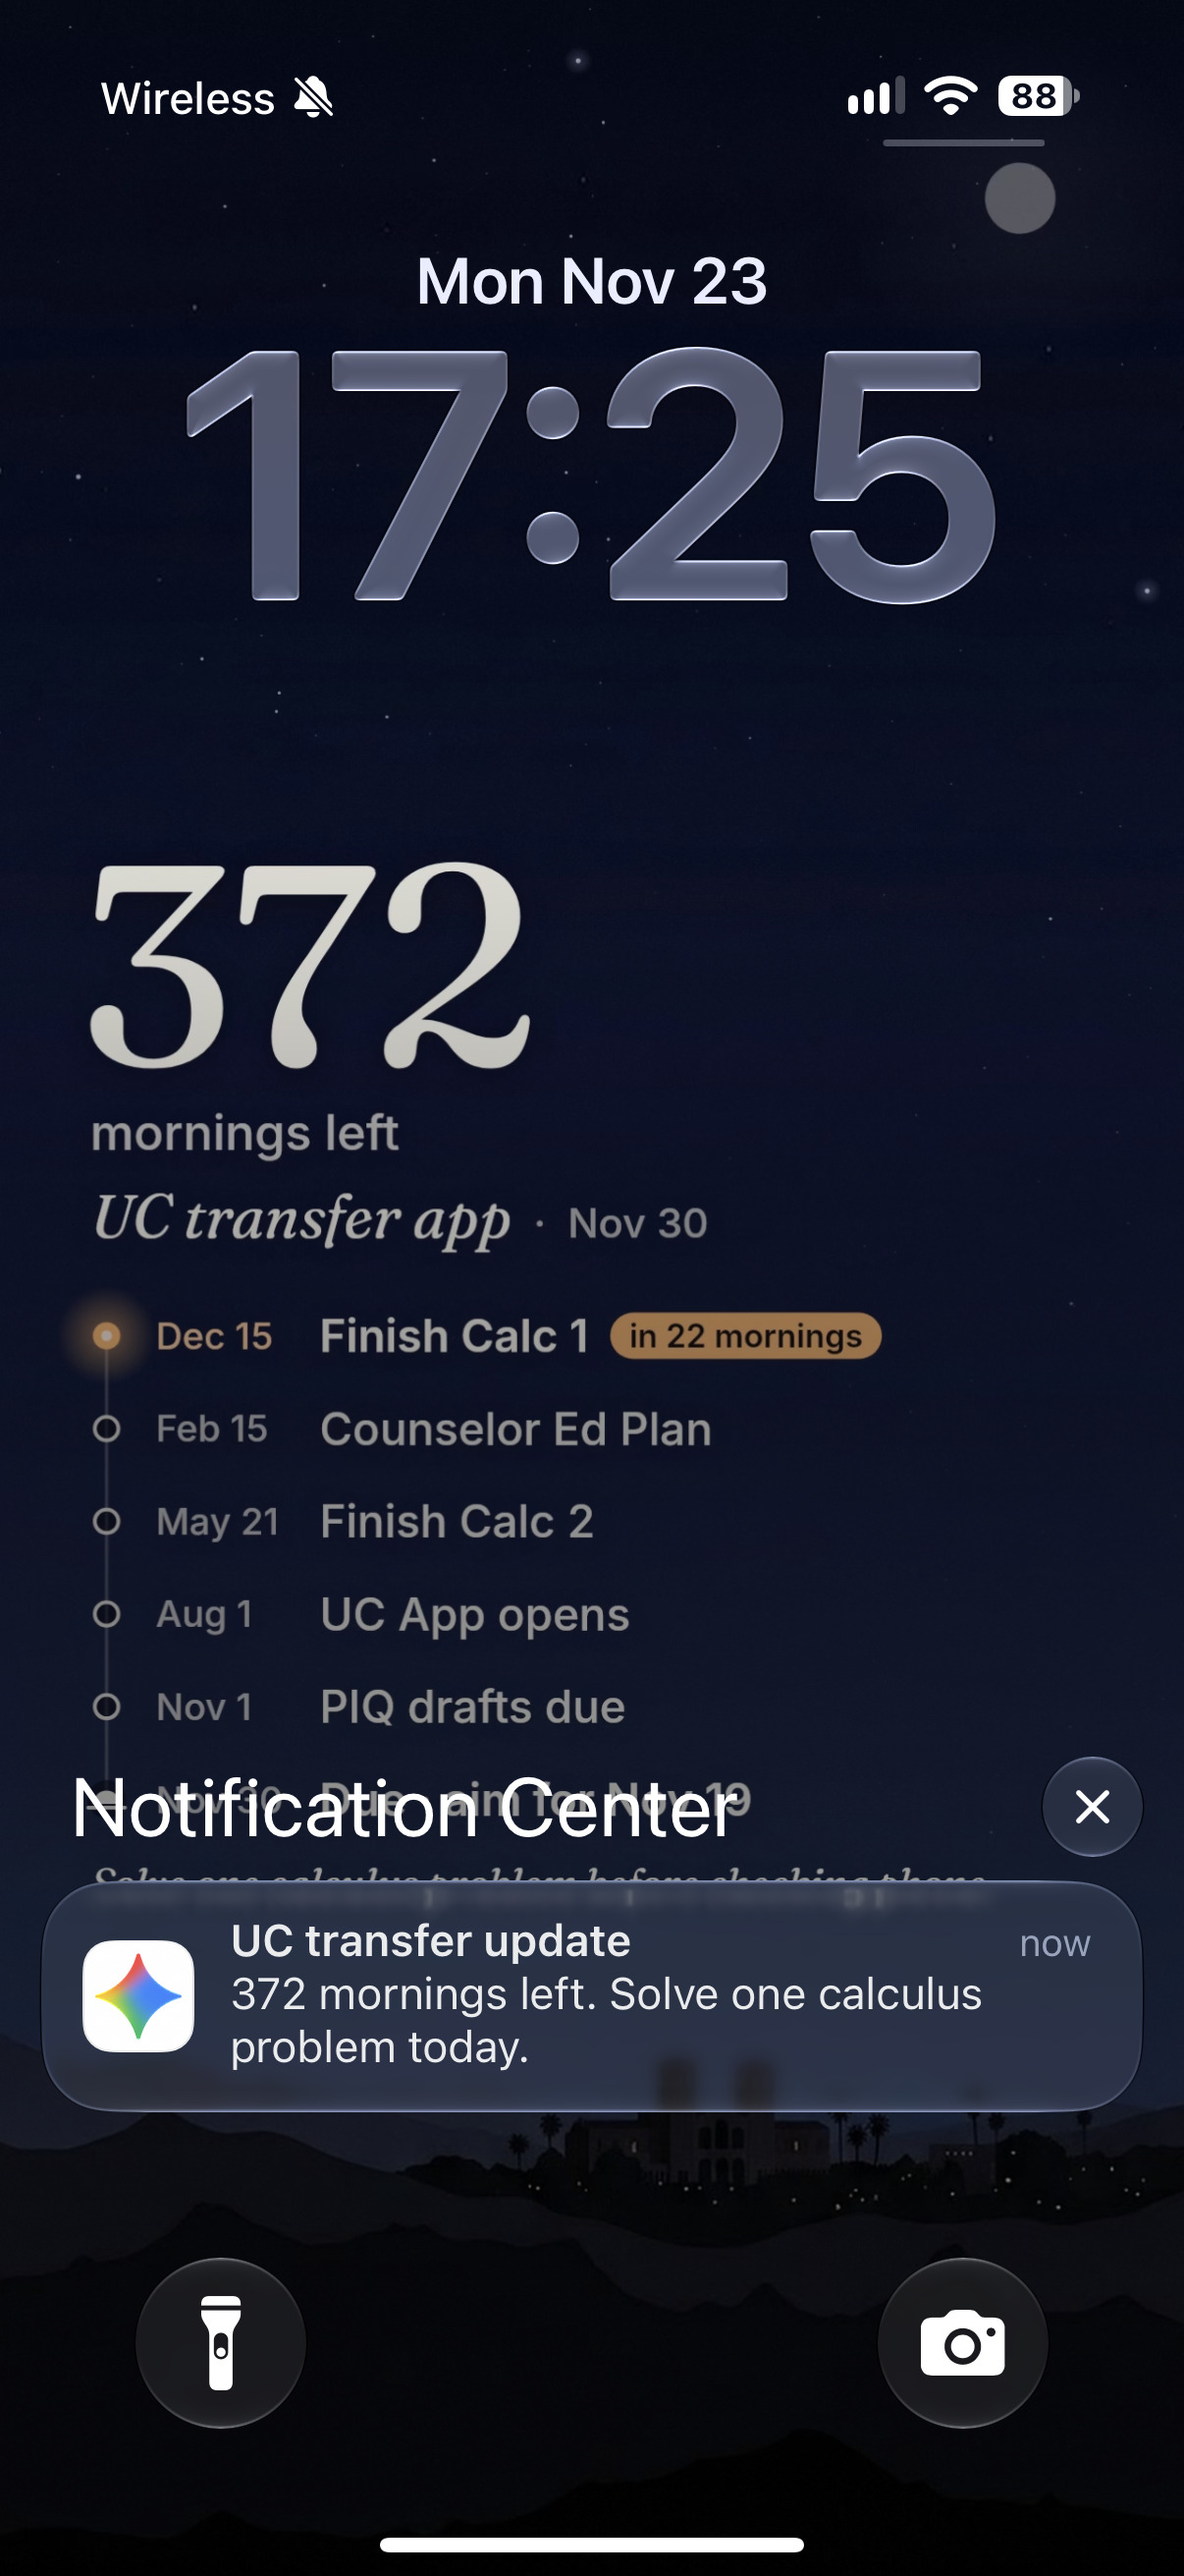
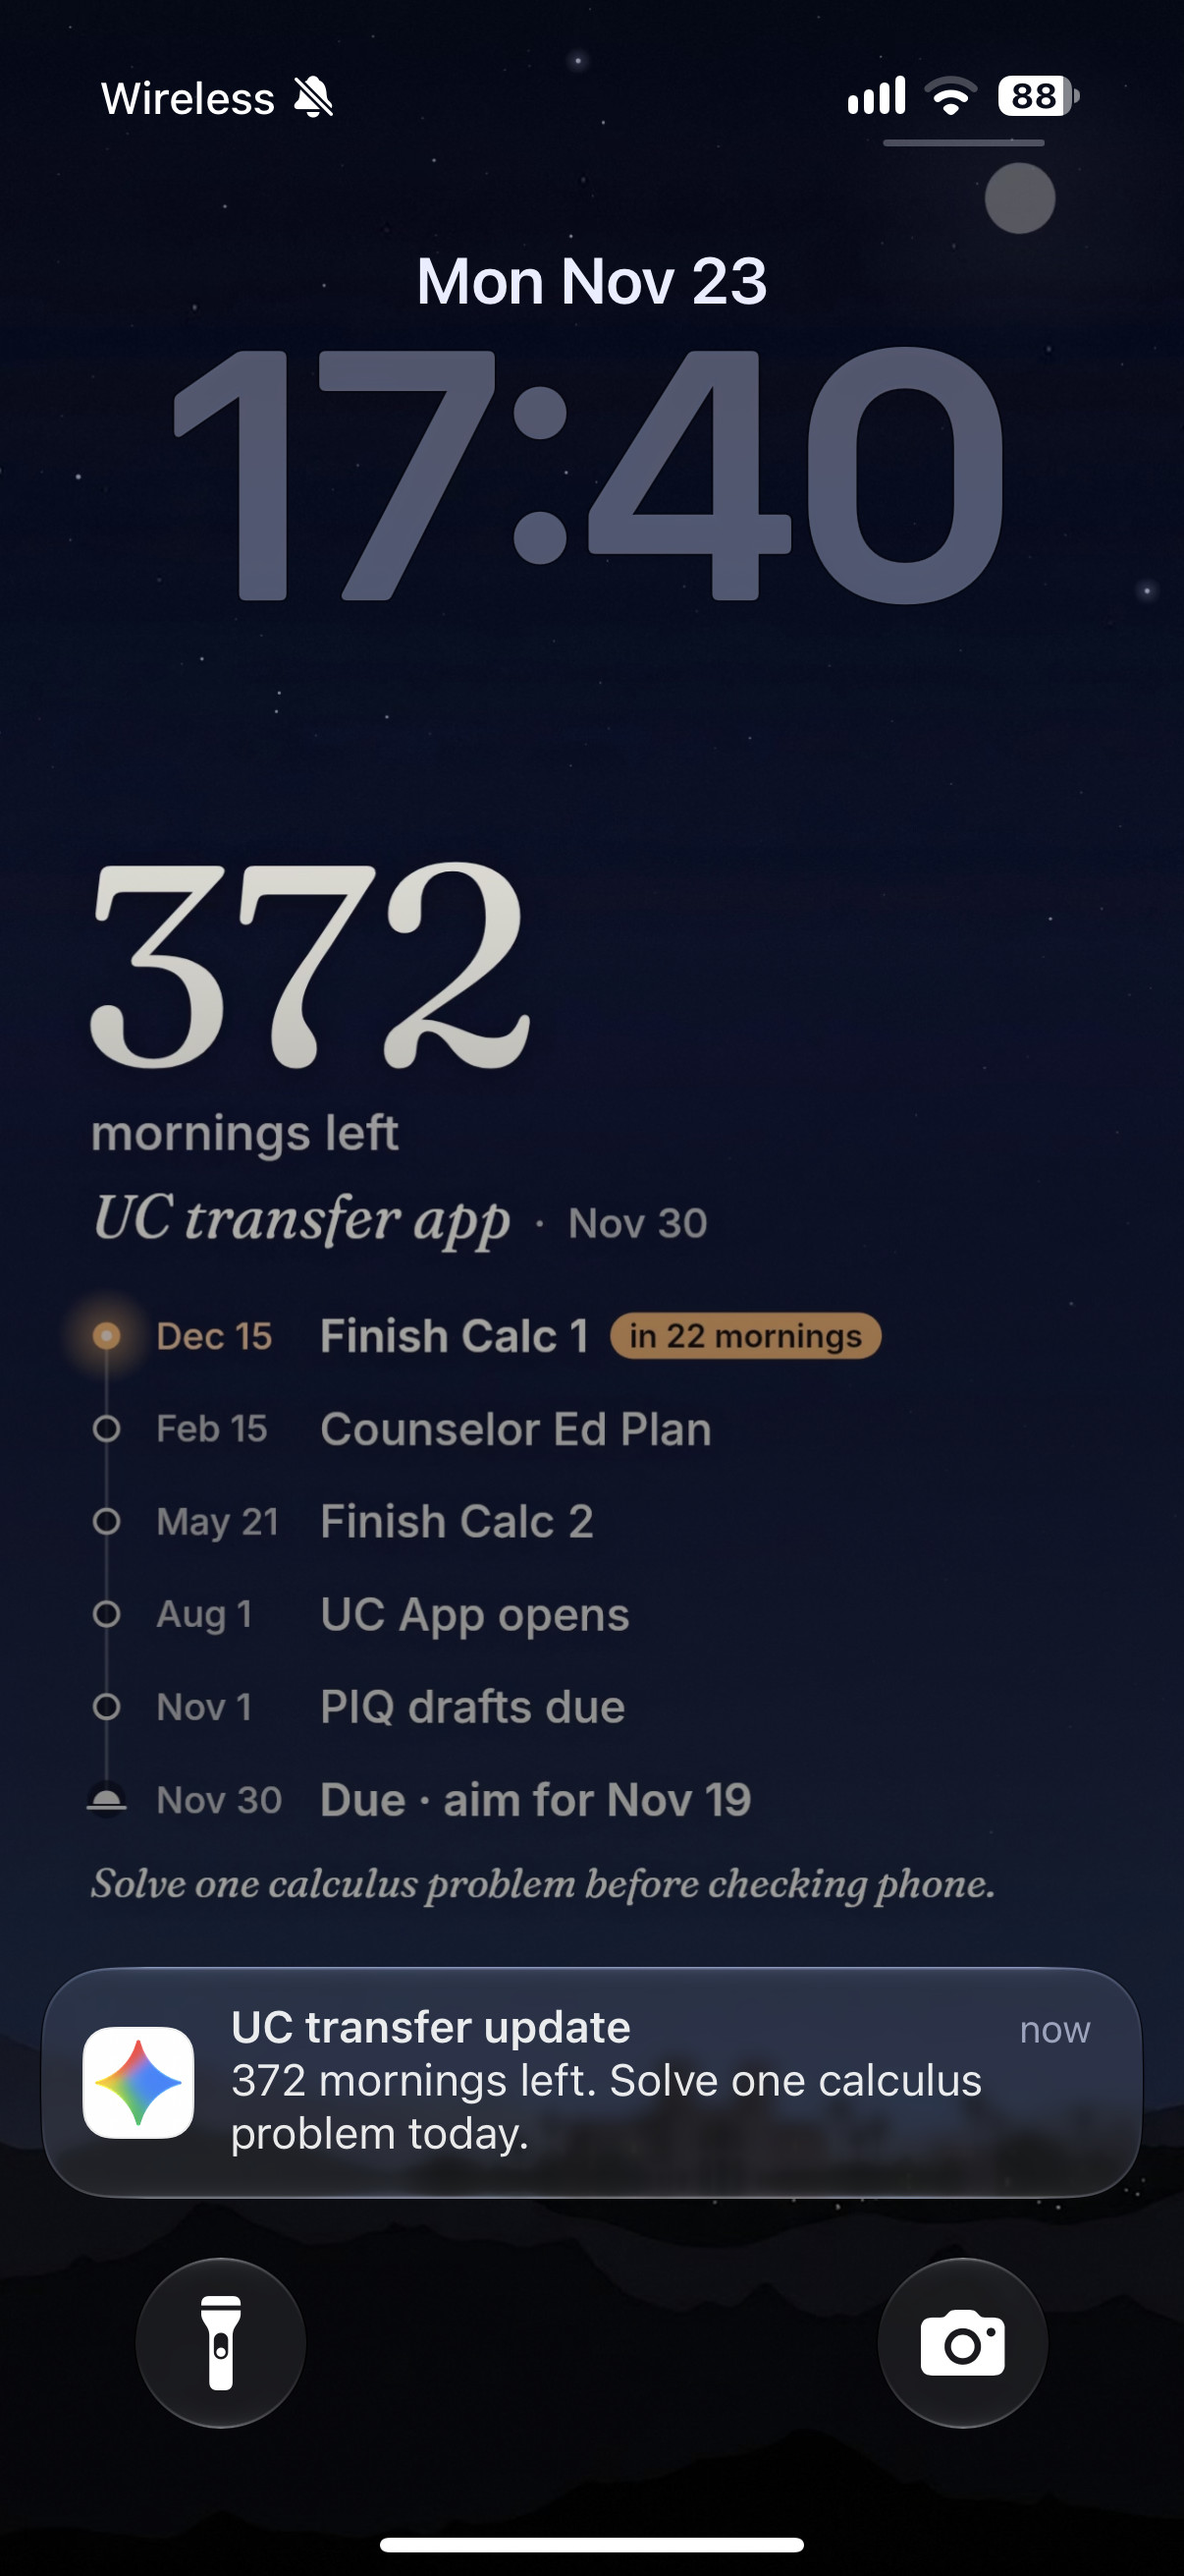
Daybreak: pages and assets
Claude-Session: https://claude.ai/code/session_01Qqo9spEyf4zYtqJ5ycXQfB

diff --git a/assets/shortcut-Diw9ntKa.js b/assets/shortcut-Diw9ntKa.js
@@ -1,0 +1,1 @@
+import{E as e,a as t,d as n,f as r,s as i,t as a,u as o,v as s,w as c,x as l}from"./config-BmUlUjgi.js";/* empty css              */import{n as u,t as d}from"./site-BTsRiSAJ.js";var f=/^\s*PLACEHOLDER\b[\s:—–-]*/i;function p(e){if(e==null)return!1;if(typeof e==`string`)return e.trim()!==``&&!f.test(e);if(Array.isArray(e))return e.length>0&&e.every(p);if(typeof e==`object`){let t=Object.entries(e).filter(([e])=>!e.startsWith(`_`)).map(([,e])=>e);return t.length>0&&t.every(p)}return!0}var m={shortcutUrl:``,phoneShot:{src:`proof/phone-lock-screen.jpg`,date:`2026-11-23`},phoneNote:{src:`proof/phone-note.jpg`,date:`2026-11-23`,time:`17:40`,title:`UC transfer update`,text:`372 mornings left. Solve one calculus problem today.`},firstNote:{src:`proof/first-note.png`,w:1500,h:510,date:`2026-11-19`,time:`6:30`,quote:`376 mornings left until November 30, 2027. Next milestone: Finish Calc 1 (Dec 15, 2026) · Due today/tomorrow: None · Step for today: Solve one calculus problem before checking your phone.`,lines:[`376 mornings left until November 30, 2027.`,`Next milestone: Finish Calc 1 (Dec 15, 2026)`,`Due today/tomorrow: None`,`Step for today: Solve one calculus problem before checking your phone.`]}};function h(e=m){return{shortcut:p(e.shortcutUrl)&&/^https:\/\/(www\.)?icloud\.com\/shortcuts\//.test(e.shortcutUrl),phoneShot:p(e.phoneShot),firstNote:p(e.firstNote),phoneNote:!!e.phoneNote&&p(e.phoneNote)}}function g(){let e=/[#&]c=([A-Za-z0-9_-]+)/.exec(location.hash),t=e?o(e[1])?.config:void 0;if(t)return t;try{let e=localStorage.getItem(`daybreak:last`);if(e)return s(JSON.parse(e)).config}catch{}return a}var _=g(),v=i(_),y=e(),b=Math.max(0,l(y,v)),x=(e,t)=>{let n=document.getElementById(e);n&&(n.textContent=t)},S=_.unit===`days`?b===1?`day`:`days`:b===1?`morning`:`mornings`,C=l(_.start,y)<0?_.start:y,w=t(C),T=u(location),E=_.slug===a.slug&&/^https?:/.test(T),D=d(T,_.slug,``).replace(/\.jpg$/,``);x(`sTitle`,_.title),x(`sDeadline`,c(v)),x(`sLeft`,b>0?`${b} ${S} left`:l(y,v)===0?`Deadline day`:`Done`),x(`sToday`,w),x(`lToday`,w),x(`tExample`,C),x(`sHosted`,d(T,_.slug,C)),x(`sFolder`,`iCloud Drive › Shortcuts › Daybreak › ${_.slug}`),x(`sUntil`,`${c(r(_))} (two weeks of “Done” after the deadline)`),x(`aBase`,D),x(`aFull`,`${D}[Formatted Date].jpg`),document.getElementById(`sHostedNote`).hidden=E;{let e=document.getElementById(`addShortcut`);if(e&&_.slug===a.slug&&h().shortcut){let t=document.createElement(`a`);t.className=`btn`,t.href=m.shortcutUrl,t.rel=`noopener`,t.textContent=`Add the daily Shortcut`;let n=document.createElement(`span`);n.textContent=` Or add the one I use, from iCloud. It can’t go stale: a new picture is set at 6:00 every morning.`,e.append(t,n),e.hidden=!1}}document.querySelectorAll(`[data-fill]`).forEach(e=>{let t=e.dataset.fill;t===`slug`?e.textContent=_.slug:t===`folderFull`?e.textContent=`iCloud Drive › Shortcuts › Daybreak › ${_.slug} › ${w} …`:t===`path`?e.textContent=`Daybreak/${_.slug}/[Formatted Date].jpg`:t===`androidDir`?e.textContent=`Pictures/Daybreak/${_.slug}`:t===`androidFile`&&(e.textContent=`Pictures/Daybreak/${_.slug}/%formatted.jpg`)}),E||(document.getElementById(`m2`).open=!0);var O=`./make.html#c=${n(_)}`;for(let e of[`sEdit`,`navMake`]){let t=document.getElementById(e);t&&(t.href=O)}var k=document.getElementById(`copyBase`);k.addEventListener(`click`,async()=>{try{await navigator.clipboard.writeText(D),k.textContent=`Copied`}catch{k.textContent=`Select and copy`}setTimeout(()=>k.textContent=`Copy`,1600)});

diff --git a/shortcut.html b/shortcut.html
@@ -18,7 +18,7 @@
     <meta name="twitter:description" content="Four Shortcut actions: Date, Format Date, Get Contents of URL, Set Wallpaper. About five minutes to set up." />
     <meta name="twitter:image" content="https://tomoki-2006.github.io/daybreak/cover/og.png" />
     <link rel="icon" href="./favicon.svg" type="image/svg+xml" />
-    <script type="module" crossorigin src="./assets/shortcut-BJ4OyeQH.js"></script>
+    <script type="module" crossorigin src="./assets/shortcut-Diw9ntKa.js"></script>
     <link rel="modulepreload" crossorigin href="./assets/config-BmUlUjgi.js">
     <link rel="modulepreload" crossorigin href="./assets/site-BTsRiSAJ.js">
     <link rel="stylesheet" crossorigin href="./assets/config-Dy9Zaycy.css">
